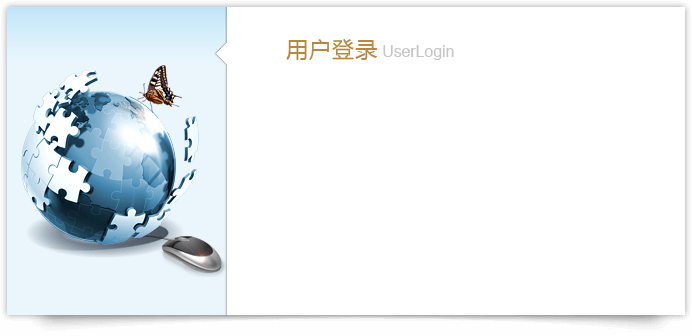
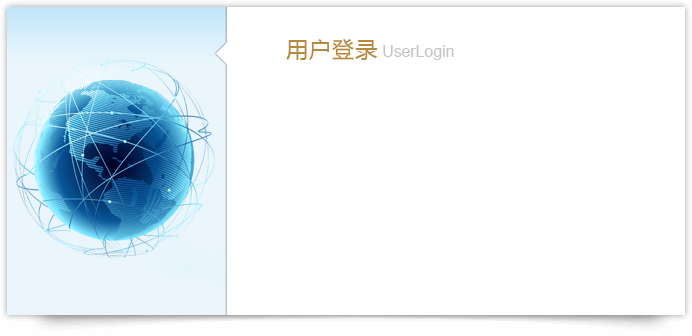
图片

Changed region(s): [[0.0, 0.1786, 0.3338, 0.8333]]

diff --git a/public/back/old/login.css b/public/back/old/login.css
@@ -19,7 +19,7 @@ a:hover{color:#00a4ac;text-decoration:none;}
 .logintop ul li{float:left; margin-left:20px; line-height:47px;}
 .logintop ul li a{color:#afc5d2;}
 .logintop ul li a:hover{color:#fff;}
-.loginbody{background:url(/back/old/images/loginbg3.png) no-repeat center center; width:100%; height:100%; overflow:hidden; position:absolute; top:47px;}
+.loginbody{background:url(/back/old/images/abc123.jpg) no-repeat center center; width:100%; height:100%; overflow:hidden; position:absolute; top:47px;}
 .loginbox{ position:absolute; left:50% !important; top:50%; width:692px; height:336px; margin:-193px 0 0 -346px; background:url(/back/old/images/logininfo.png) no-repeat;}
 .loginbox ul{margin-top:88px; margin-left:285px;}
 .loginbox ul li{margin-bottom:15px;}
